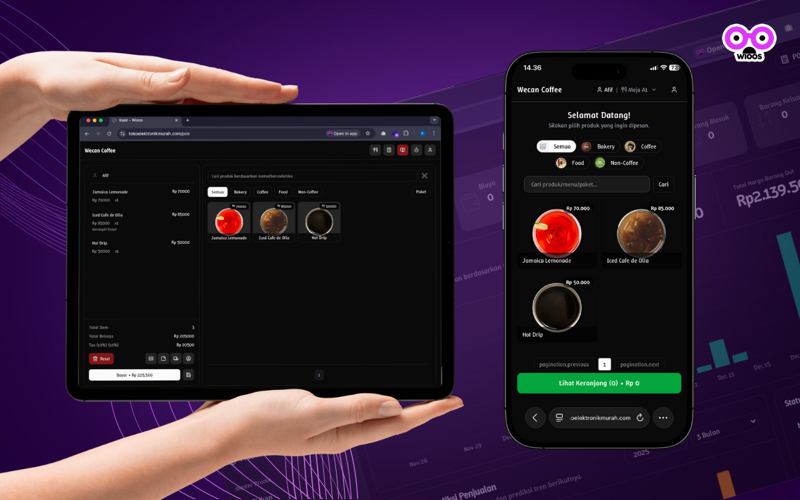
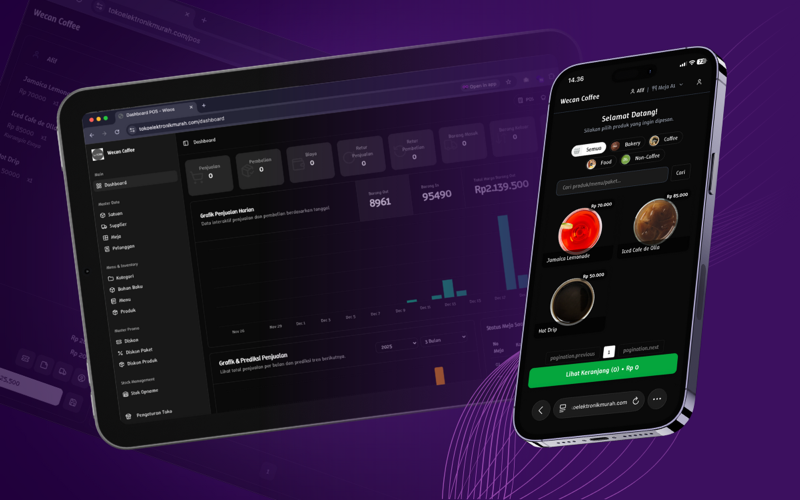
update gambar card 1 dan background section

diff --git a/components/sections/projects.tsx b/components/sections/projects.tsx
@@ -139,7 +139,8 @@ function ProjectCard({ project, index }: { project: any, index: number }) {
 
 export function Projects() {
   return (
-    <SectionWrapper id="projects" className="pt-0 pb-16 md:pt-0 md:pb-32">
+    <section id="projects" className="relative">
+      <SectionWrapper className="pt-0 pb-16 md:pt-0 md:pb-32">
       <div className="space-y-8 md:space-y-12">
         {/* Header */}
         <div className="flex flex-col md:flex-row md:items-end justify-between gap-8">
@@ -190,7 +191,9 @@ export function Projects() {
 
 
       </div>
-    </SectionWrapper>
+      </SectionWrapper>
+      <div className="absolute bottom-0 inset-x-0 h-40 bg-gradient-to-t from-background to-transparent z-10 pointer-events-none" />
+    </section>
   )
 }
 

diff --git a/components/sections/about.tsx b/components/sections/about.tsx
@@ -5,7 +5,8 @@ import { SectionWrapper } from "@/components/shared/section-wrapper"
 
 export function About() {
   return (
-    <SectionWrapper id="about" className="py-16 md:py-32 bg-transparent relative overflow-hidden">
+    <section id="about" className="bg-zinc-950 py-16 md:py-32 relative overflow-hidden">
+      <SectionWrapper className="relative z-10 bg-transparent">
       <div className="container mx-auto px-4 relative z-10">
         <div className="max-w-4xl mx-auto flex flex-col items-center text-center space-y-8 md:space-y-12">
           
@@ -56,6 +57,7 @@ export function About() {
 
         </div>
       </div>
-    </SectionWrapper>
+      </SectionWrapper>
+    </section>
   )
 }

diff --git a/components/sections/services.tsx b/components/sections/services.tsx
@@ -54,7 +54,9 @@ export function Services() {
   const [activeService, setActiveService] = useState<number | null>(null)
 
   return (
-    <SectionWrapper id="services" className="py-20 md:py-32 bg-transparent text-white">
+    <section id="services" className="relative py-20 md:py-32">
+
+      <SectionWrapper className="relative z-20 bg-transparent text-white">
       <div className="max-w-7xl mx-auto">
         <div className="grid grid-cols-1 lg:grid-cols-2 gap-12 lg:gap-8 items-start">
           
@@ -177,6 +179,8 @@ export function Services() {
 
         </div>
       </div>
-    </SectionWrapper>
+      </SectionWrapper>
+
+    </section>
   )
 }
